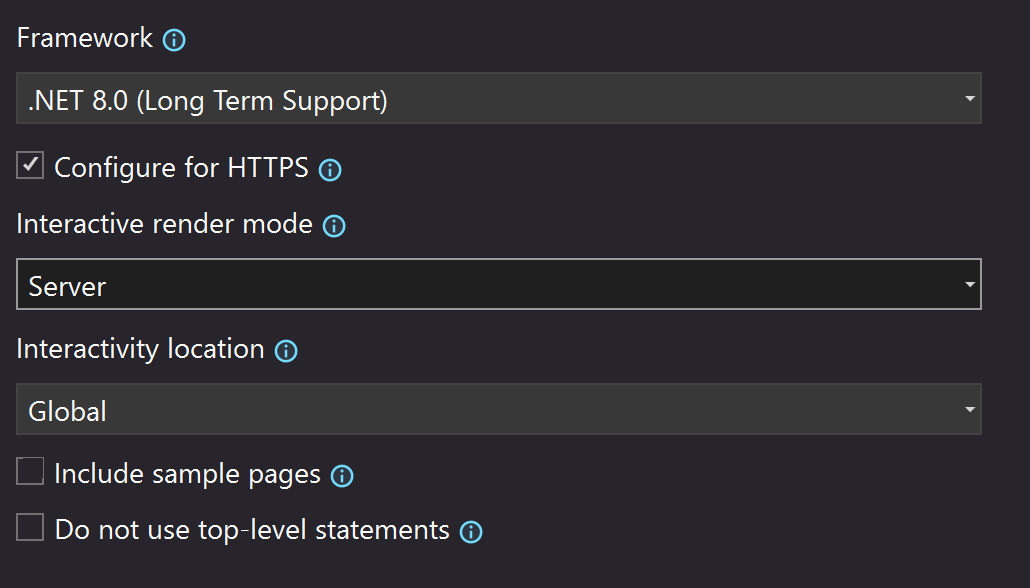
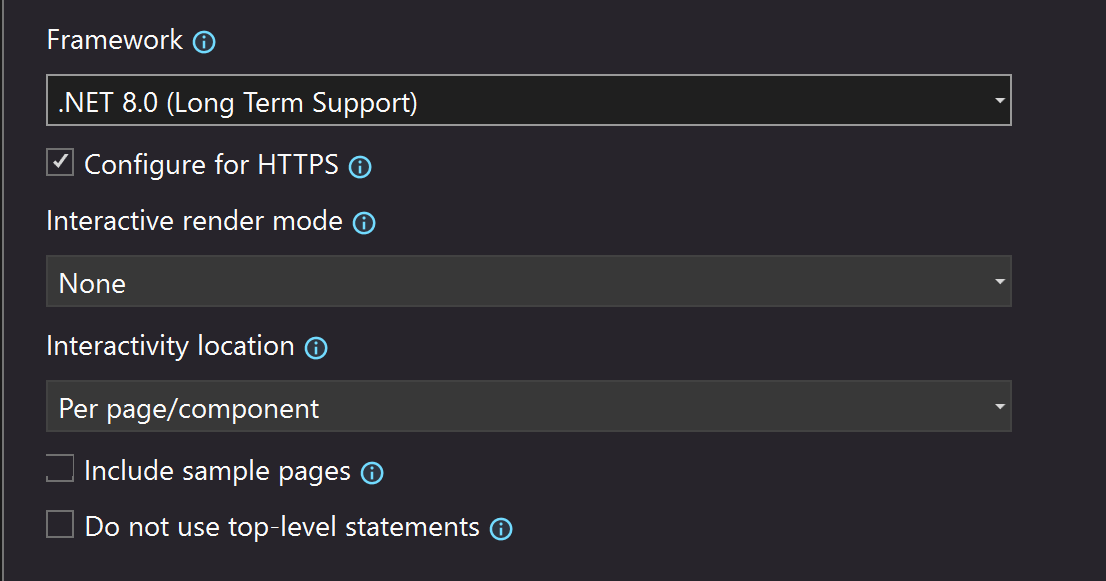
Changes to support Rendering mode: none

diff --git a/MyApp.Web/Program.cs b/MyApp.Web/Program.cs
@@ -6,8 +6,7 @@ using MyApp.Web.Services;
 var builder = WebApplication.CreateBuilder(args);
 
 // Add services to the container.
-builder.Services.AddRazorComponents()
-    .AddInteractiveServerComponents();
+builder.Services.AddRazorComponents();
 
 // Add device specific services used by Razor Class Library (MyApp.Shared)
 builder.Services.AddScoped<IFormFactor, FormFactor>();
@@ -27,8 +26,7 @@ app.UseHttpsRedirection();
 app.UseStaticFiles();
 app.UseAntiforgery();
 
-app.MapRazorComponents<App>()
-    .AddInteractiveServerRenderMode()
+app.MapRazorComponents<App>()    
     .AddAdditionalAssemblies(typeof(MyApp.Shared._Imports).Assembly); 
 
 app.Run();

diff --git a/Readme.md b/Readme.md
@@ -1,5 +1,5 @@
 # Setting up a solution for MAUI hybrid and Blazor web with shared UI
-## (Rendering mode: Server - Global)
+## (Rendering mode: None)
 This repo demonstrates a starter solution that contains a MAUI hybrid (native, cross-platform) app, a Blazor web app and a Razor class library that contains all the shared UI that is used by both native and web apps. 
 
 ![Apps running on Windows, Android, and Web with shared UI](MyApp.png)
@@ -20,9 +20,9 @@ To manually set this up yourself in Visual Studio, follow these steps
 
     b.  Configure for HTTPS is checked
 
-    c.  Interactive render mode = **Server**
+    c.  Interactive render mode = **None**
 
-    d.  Interactivity location = **Global** <-- _This setting is important because hybrid apps always run interactive and will throw errors on pages or components that explicitly specify a render mode. See [#51235](https://github.com/dotnet/aspnetcore/issues/51235). If you do not use a global render mode, you will need to implement the pattern shown in this repository._
+    d.  Interactivity location = _doesn't matter_
     
     e.  Uncheck Include sample pages
        
@@ -35,6 +35,7 @@ To manually set this up yourself in Visual Studio, follow these steps
 5.  Now add project references to `MyApp.Shared` from both `MyApp.MAUI` & `MyApp.Web` project
 
 6.  Move the `Components` folder and all of its contents from `MyApp.MAUI` to `MyApp.Shared` (Ctrl+X, Ctrl+V)
+ _NOTE: The Counter.razor page won't work on the web if you don't specify an Interactive rendering mode, so you might want to delete that page._
 
 7.  Move `wwwroot/css` folder and all of its contents from from `MyApp.MAUI` to `MyApp.Shared` (Ctrl+X, Ctrl+V)
 
